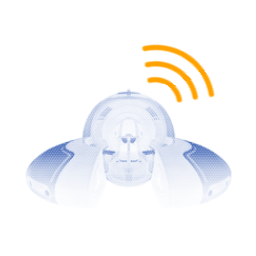
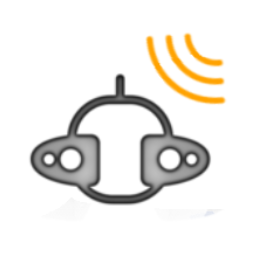
asd

Changed region(s): [[0.0938, 0.2812, 0.9062, 0.8125], [0.5312, 0.125, 0.9062, 0.4375], [0.8125, 0.8125, 0.8438, 0.8438]]

diff --git a/RemoteControlVehicles/Main.cs b/RemoteControlVehicles/Main.cs
@@ -39,6 +39,7 @@ namespace RemoteControlVehicles
                 Player.main.transform.position = position;
                 isActive = false;
                 hud.SetActive(false);
+                Player.main.liveMixin.shielded = false;
             }
         }
 
@@ -107,6 +108,14 @@ namespace RemoteControlVehicles
 
                 CoroutineHost.StartCoroutine(WaitForWorld(__instance));
             }
+            if(isActive)
+            {
+                __instance.transform.Find("body").gameObject.SetActive(false);
+            }
+            else
+            {
+                __instance.transform.Find("body").gameObject.SetActive(true);
+            }
         }
         public static bool PlayerHasChip()
         {
@@ -155,6 +164,7 @@ namespace RemoteControlVehicles
                 vehicle.EnterVehicle(player, true, false);
             }
             isActive = true;
+            player.liveMixin.shielded = true;
         }
         public static IEnumerator WaitForABit(VehicleDockingBay dockingBay, Player player, Vehicle dockedVehicle)//unused
         {
@@ -205,6 +215,26 @@ namespace RemoteControlVehicles
             {
                 hasModule = added;
                 vehicle = null;
+            }
+        }
+
+        [HarmonyPatch(typeof(Vehicle), nameof(Vehicle.ReplenishOxygen))]
+        [HarmonyPrefix]
+        public static bool FixOxygen(Vehicle __instance)
+        {
+            if (isActive && sub == null)
+            {
+                return false;
+            }
+            return true;
+        }
+        [HarmonyPatch(typeof(Player), nameof(Player.CanBreathe))]
+        [HarmonyPostfix]
+        public static void FixOxygen(Player __instance, ref bool __result)
+        {
+            if (isActive && sub == null)
+            {
+                __result = false;
             }
         }
 

diff --git a/CyclopsVehicleUpgradeConsole/Main.cs b/CyclopsVehicleUpgradeConsole/Main.cs
@@ -273,7 +273,15 @@ namespace CyclopsVehicleUpgradeConsole
         public bool colorScreenActive = false;
         public void OnHandClick(GUIHand hand)
         {
-            if(!CrafterLogic.IsCraftRecipeUnlocked(this.vehicleType)) 
+            SubRoot subRoot = this.gameObject.GetComponentInParent<SubRoot>();
+            VehicleDockingBay vehicleDockingBay = subRoot.GetComponentInChildren<VehicleDockingBay>();
+            if(vehicleDockingBay.dockedVehicle != null)
+            {
+                ErrorMessage.AddMessage("There is already a vehicle docked!");
+                MakeThing.SetActive(gameObject);
+                return;
+            }
+            if (!CrafterLogic.IsCraftRecipeUnlocked(this.vehicleType)) 
             {
                 ErrorMessage.AddMessage("You haven't unlocked the blueprint for this vehicle");
                 return;
@@ -284,6 +292,7 @@ namespace CyclopsVehicleUpgradeConsole
             }
             CoroutineHost.StartCoroutine(OnCraftingBegin(this.vehicleType, 5f));
         }
+
         public IEnumerator OnCraftingBegin(TechType techType, float duration)
         {
             Vector3 zero = Vector3.zero;

diff --git a/RemoteControlVehicles/RemoteControlHudChip.cs b/RemoteControlVehicles/RemoteControlHudChip.cs
@@ -35,7 +35,7 @@ namespace RemoteControlVehicles
         public override QuickSlotType QuickSlotType => QuickSlotType.Passive;
         protected override Sprite GetItemSprite()
         {
-            return ImageUtils.LoadSpriteFromFile(Path.Combine(AssetsFolder, "TempIcon.png"));
+            return ImageUtils.LoadSpriteFromFile(Path.Combine(AssetsFolder, "HudChipRemoteControl.png"));
         }
 
         protected override RecipeData GetBlueprintRecipe()
